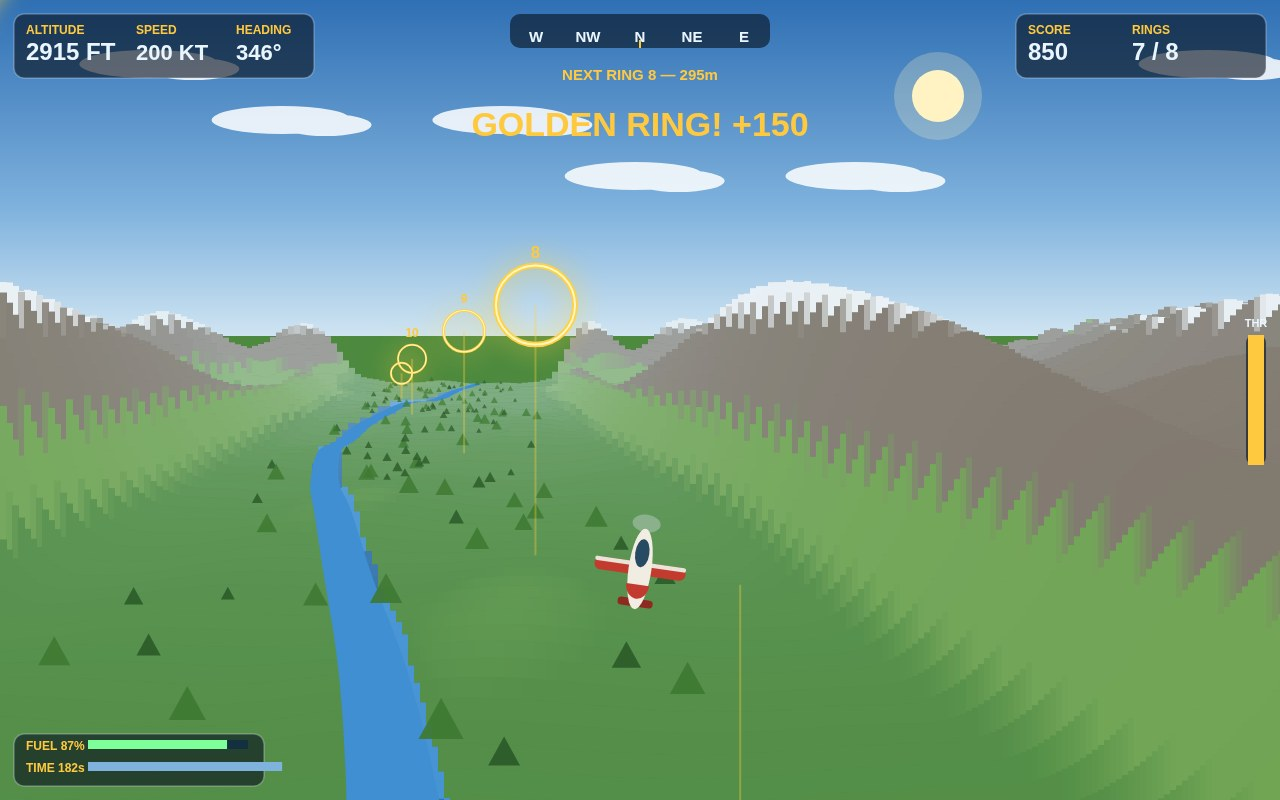
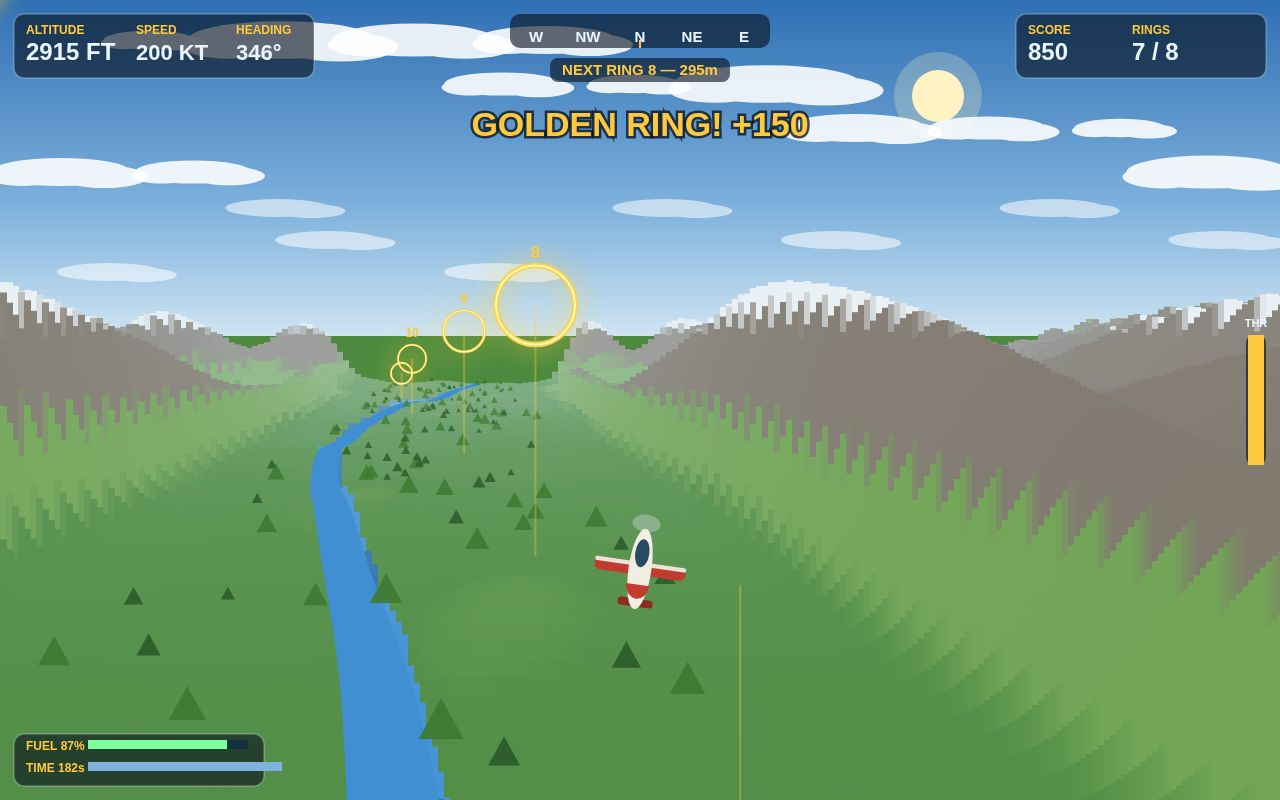
Ring Runner Ridge v2: runway landing bonus (+500, LANDED screen), low-fuel warning, denser clouds

diff --git a/game/src/render.js b/game/src/render.js
@@ -2,7 +2,7 @@
 // trees, glowing rings, the aircraft, the cockpit, the HUD and the screens.
 // One clear job: turn a world state and a camera into one canvas frame.
 
-import { COLORS, RING, WORLD } from './config.js';
+import { COLORS, RING, RUN, WORLD } from './config.js';
 import { isRiverWater, isRunwayGround, riverCentreX, terrainHeightAt } from './terrain.js';
 import { nextRing, PHASE_FLYING, PHASE_OVER, PHASE_TITLE, visibleRings } from './world.js';
 
@@ -100,14 +100,26 @@ function drawSky(ctx, width, height, camera) {
   ctx.beginPath();
   ctx.arc(sunX, sunY, 44, 0, Math.PI * 2);
   ctx.fill();
-  // A few flat clouds drifting over the valley.
-  ctx.fillStyle = 'rgba(255, 255, 255, 0.85)';
-  for (let index = 0; index < 6; index += 1) {
+  // Layered clouds drifting over the valley: a high band of big puffs and a
+  // lower band of smaller, hazier ones near the horizon for depth.
+  ctx.fillStyle = 'rgba(255, 255, 255, 0.88)';
+  for (let index = 0; index < 13; index += 1) {
     const cx = ((index * 331 + 140) % 1200) / 1200 * width;
-    const cy = height * (0.08 + (index % 3) * 0.07);
+    const cy = height * (0.05 + (index % 4) * 0.055);
+    const size = 46 + (index % 5) * 12;
     ctx.beginPath();
-    ctx.ellipse(cx, cy, 70, 14, 0, 0, Math.PI * 2);
-    ctx.ellipse(cx + 44, cy + 5, 46, 11, 0, 0, Math.PI * 2);
+    ctx.ellipse(cx, cy, size, size * 0.2, 0, 0, Math.PI * 2);
+    ctx.ellipse(cx + size * 0.62, cy + size * 0.07, size * 0.62, size * 0.16, 0, 0, Math.PI * 2);
+    ctx.ellipse(cx - size * 0.55, cy + size * 0.06, size * 0.5, size * 0.14, 0, 0, Math.PI * 2);
+    ctx.fill();
+  }
+  ctx.fillStyle = 'rgba(255, 255, 255, 0.55)';
+  for (let index = 0; index < 8; index += 1) {
+    const cx = ((index * 521 + 260) % 1200) / 1200 * width;
+    const cy = height * (0.26 + (index % 3) * 0.04);
+    ctx.beginPath();
+    ctx.ellipse(cx, cy, 52, 9, 0, 0, Math.PI * 2);
+    ctx.ellipse(cx + 34, cy + 3, 34, 7, 0, 0, Math.PI * 2);
     ctx.fill();
   }
   // Base fill below the horizon so no gap ever shows between sky and terrain.
@@ -424,7 +436,11 @@ function drawHud(ctx, world, width, height, view) {
   // Bottom-left: fuel and time bars.
   const barY = height - (view === 'cockpit' ? height * 0.24 + 58 : 58);
   hudPanel(ctx, pad, barY - 8, 250, 52);
-  ctx.fillStyle = COLORS.hudAmber;
+  // Low-fuel alarm: the FUEL label flashes and a big warning blinks on
+  // while the tank is under the threshold (flying only, not game over).
+  const fuelAlarm = world.phase === PHASE_FLYING && world.fuel < RUN.lowFuelThreshold;
+  const alarmOn = fuelAlarm && Math.floor(world.elapsed * 3) % 2 === 0;
+  ctx.fillStyle = alarmOn ? COLORS.hudRed : COLORS.hudAmber;
   ctx.font = 'bold 12px sans-serif';
   ctx.textAlign = 'left';
   ctx.fillText(`FUEL ${Math.round(world.fuel)}%`, pad + 12, barY + 8);
@@ -452,21 +468,43 @@ function drawHud(ctx, world, width, height, view) {
   ctx.font = 'bold 11px sans-serif';
   ctx.textAlign = 'center';
   ctx.fillText('THR', width - 24, throttleTop - 8);
-  // Next-ring distance, under the compass.
+  // Next-ring distance, under the compass — on a dark pill so it stays
+  // readable against the sky and the clouds drifting behind it.
   const ring = nextRing(world);
   const ringDistance = Math.max(0, Math.round(ring.z - plane.z));
-  ctx.fillStyle = COLORS.hudAmber;
+  const ringText = `NEXT RING ${ring.index + 1} — ${ringDistance}m`;
   ctx.font = 'bold 15px sans-serif';
   ctx.textAlign = 'center';
-  ctx.fillText(`NEXT RING ${ring.index + 1} — ${ringDistance}m`, width / 2, pad + 66);
-  // Flash message for rings and near misses.
-  if (world.messageTime > 0 && world.message) {
+  const ringTextWidth = ctx.measureText(ringText).width;
+  ctx.fillStyle = COLORS.hudPanel;
+  ctx.beginPath();
+  ctx.roundRect(width / 2 - ringTextWidth / 2 - 12, pad + 44, ringTextWidth + 24, 24, 8);
+  ctx.fill();
+  ctx.fillStyle = COLORS.hudAmber;
+  ctx.fillText(ringText, width / 2, pad + 61);
+  // Flash message for rings and near misses (flying only — the end screen
+  // speaks for itself once the run is over). Dark outline so it reads
+  // against bright cloud as well as blue sky.
+  if (world.phase === PHASE_FLYING && world.messageTime > 0 && world.message) {
     ctx.globalAlpha = Math.min(1, world.messageTime);
-    ctx.fillStyle = COLORS.hudAmber;
     ctx.font = 'bold 34px sans-serif';
     ctx.textAlign = 'center';
+    ctx.lineWidth = 5;
+    ctx.strokeStyle = 'rgba(6, 14, 24, 0.75)';
+    ctx.strokeText(world.message, width / 2, height * 0.17);
+    ctx.fillStyle = COLORS.hudAmber;
     ctx.fillText(world.message, width / 2, height * 0.17);
     ctx.globalAlpha = 1;
+  }
+  // Low-fuel warning: big flashing text under the ring message.
+  if (alarmOn) {
+    ctx.font = 'bold 30px sans-serif';
+    ctx.textAlign = 'center';
+    ctx.lineWidth = 5;
+    ctx.strokeStyle = 'rgba(6, 14, 24, 0.75)';
+    ctx.strokeText('LOW FUEL — LAND ON THE RUNWAY!', width / 2, height * 0.24);
+    ctx.fillStyle = COLORS.hudRed;
+    ctx.fillText('LOW FUEL — LAND ON THE RUNWAY!', width / 2, height * 0.24);
   }
 }
 
@@ -482,7 +520,7 @@ function drawTitleScreen(ctx, world, width, height) {
   ctx.fillText('Fly the valley. Thread every glowing ring. Mind the mountains.', width / 2, height * 0.38);
   ctx.font = '18px sans-serif';
   ctx.fillText('ARROWS / WASD — pitch & roll      W / S — throttle      SPACE — boost', width / 2, height * 0.5);
-  ctx.fillText('Each ring scores +100 and adds 8 seconds. Fuel and the clock are always running.', width / 2, height * 0.55);
+  ctx.fillText('Each ring scores +100 and adds 8 seconds. Fuel and the clock always run — land on the runway for +500.', width / 2, height * 0.55);
   ctx.fillStyle = COLORS.hudGreen;
   ctx.font = 'bold 22px sans-serif';
   ctx.fillText('CLICK OR PRESS ENTER TO FLY', width / 2, height * 0.66);
@@ -494,15 +532,16 @@ function drawTitleScreen(ctx, world, width, height) {
 }
 
 function drawGameOverScreen(ctx, world, width, height) {
+  const landed = world.crashReason === 'LANDED';
   ctx.fillStyle = 'rgba(6, 10, 18, 0.62)';
   ctx.fillRect(0, 0, width, height);
   ctx.textAlign = 'center';
-  ctx.fillStyle = COLORS.hudRed;
+  ctx.fillStyle = landed ? COLORS.hudGreen : COLORS.hudRed;
   ctx.font = `bold ${Math.round(width * 0.05)}px sans-serif`;
-  ctx.fillText('FLIGHT OVER', width / 2, height * 0.3);
+  ctx.fillText(landed ? 'LANDED!' : 'FLIGHT OVER', width / 2, height * 0.3);
   ctx.fillStyle = COLORS.hudAmber;
   ctx.font = 'bold 26px sans-serif';
-  ctx.fillText(world.crashReason, width / 2, height * 0.38);
+  ctx.fillText(landed ? `RUNWAY LANDING  +${RUN.landingBonus}` : world.crashReason, width / 2, height * 0.38);
   ctx.fillStyle = COLORS.hudText;
   ctx.font = 'bold 30px sans-serif';
   ctx.fillText(`SCORE ${world.score}`, width / 2, height * 0.48);

diff --git a/game/src/shots.js b/game/src/shots.js
@@ -1,5 +1,5 @@
-// The screenshot scenes behind ?shot=cover|low|valley|end. Each one plays the
-// real rules forward from a fresh world for a fixed number of steps, steered
+// The screenshot scenes behind ?shot=cover|low|valley|end|landed. Each one plays
+// the real rules forward from a fresh world for a fixed number of steps, steered
 // by a simple autopilot (aim at the next ring, hold a safe altitude, keep the
 // throttle up), so the frame is what a short game really looks like and the
 // same seed always gives the same frame.
@@ -19,6 +19,11 @@ const LOW_SECONDS = 3.5;
 const VALLEY_SECONDS = 46;
 const END_GOOD_SECONDS = 22;
 const END_DIVE_LIMIT_SECONDS = 30;
+const LANDED_OUTBOUND_SECONDS = 14;
+const LANDED_APPROACH_LIMIT_SECONDS = 75;
+
+/** Runway touchdown point the landing approach aims for (mid-strip). */
+const LANDING_TARGET = { x: -40, z: 220 };
 
 /** How far ahead, in seconds, the autopilot plans its next move. */
 const HORIZON_GOOD = 0.9;
@@ -60,11 +65,55 @@ function flyForward(world, seconds, horizon) {
 }
 
 /**
- * Set `world` to the named scene (cover, low, valley or end; any other name
- * is cover) and return the view to render it with ('chase' or 'cockpit').
+ * The landing approach stick: turn back toward the runway, slow down, and
+ * descend on a shallow profile to the touchdown point — high and fast far
+ * out, low and slow over the strip, nose level for the final few units so
+ * the wheels meet the runway gently instead of striking the ground.
+ */
+function landingAutopilot(world) {
+  const plane = world.plane;
+  const dx = LANDING_TARGET.x - plane.x;
+  const dz = LANDING_TARGET.z - plane.z;
+  const distance = Math.sqrt(dx * dx + dz * dz);
+  // Ground ahead along the direction of travel, not just down the valley:
+  // the 180-degree turn swings the plane sideways, where the ridges rise.
+  const groundAhead = terrainHeightAt(
+    plane.x + Math.sin(plane.heading) * plane.speed * 1.2,
+    plane.z + Math.cos(plane.heading) * plane.speed * 1.2,
+  );
+  // Climb high and slow for the turn, then a shallow stepped descent that
+  // only reaches the ground once lined up over the strip.
+  const profile = distance > 600 ? 75 : distance > 300 ? 45 : distance > 120 ? 18 : distance > 40 ? 6 : 0;
+  const margin = distance > 300 ? 20 : distance > 120 ? 10 : distance > 40 ? 4 : 0;
+  const desiredAltitude = Math.max(profile, groundAhead + margin);
+  const pitch = Math.max(-1, Math.min(1, (desiredAltitude - plane.y) * 0.08 - plane.pitch * 1.2));
+  const desiredHeading = Math.atan2(dx, dz);
+  let headingError = desiredHeading - plane.heading;
+  while (headingError > Math.PI) headingError -= Math.PI * 2;
+  while (headingError < -Math.PI) headingError += Math.PI * 2;
+  const roll = Math.max(-1, Math.min(1, headingError * 2.5 - plane.roll * 2.0));
+  const desiredThrottle = distance > 600 ? 0.15 : distance > 150 ? 0.55 : 0.2;
+  const throttle = Math.max(-1, Math.min(1, (desiredThrottle - plane.throttle) * 4));
+  return { pitch, roll, throttle, boost: false };
+}
+
+/**
+ * Set `world` to the named scene (cover, low, valley, end or landed; any
+ * other name is cover) and return the view to render it with ('chase' or
+ * 'cockpit').
  */
 export function stageShot(name, world) {
   resetWorld(world);
+  if (name === 'landed') {
+    // Fly out past the airfield, turn around, and land back on the runway —
+    // the run ends on the LANDED screen with the +500 bonus.
+    flyForward(world, LANDED_OUTBOUND_SECONDS, HORIZON_GOOD);
+    world.phase = PHASE_FLYING;
+    for (let index = 0; index < LANDED_APPROACH_LIMIT_SECONDS / STEP; index += 1) {
+      if (stepWorld(world, landingAutopilot(world), STEP) & EVENT_OVER) break;
+    }
+    return { view: 'chase', phase: world.phase };
+  }
   if (name === 'low') {
     // Cockpit view just after takeoff: the runway still in sight ahead.
     flyForward(world, LOW_SECONDS, HORIZON_GOOD);

diff --git a/game/src/world.js b/game/src/world.js
@@ -4,7 +4,7 @@
 
 import { PLANE, RING, RUN, STEP } from './config.js';
 import { hash01 } from './random.js';
-import { buildTreeStand, terrainHeightAt } from './terrain.js';
+import { buildTreeStand, isRunwayGround, terrainHeightAt } from './terrain.js';
 
 export const EVENT_NONE = 0;
 export const EVENT_RING = 1;
@@ -12,7 +12,8 @@ export const EVENT_NEAR_MISS = 2;
 export const EVENT_CRASH = 4;
 export const EVENT_OUT_OF_FUEL = 8;
 export const EVENT_OUT_OF_TIME = 16;
-export const EVENT_OVER = EVENT_CRASH | EVENT_OUT_OF_FUEL | EVENT_OUT_OF_TIME;
+export const EVENT_LANDED = 32;
+export const EVENT_OVER = EVENT_CRASH | EVENT_OUT_OF_FUEL | EVENT_OUT_OF_TIME | EVENT_LANDED;
 
 export const PHASE_TITLE = 'title';
 export const PHASE_FLYING = 'flying';
@@ -54,6 +55,7 @@ export function createWorld(seed) {
     messageTime: 0,
     nextRingIndex: 0,
     elapsed: 0,
+    flewAway: false, // true once the plane has left the airfield behind
   };
 }
 
@@ -113,6 +115,7 @@ export function stepWorld(world, input, dt = STEP) {
   const sink = plane.throttle < 0.12 ? 4 : 0;
   plane.y += plane.speed * Math.sin(plane.pitch) * PLANE.climbRate * dt - sink * dt;
   plane.y = clamp(plane.y, 1, PLANE.ceiling);
+  if (plane.z > RUN.airfieldClearZ) world.flewAway = true;
 
   // Fuel burns with throttle (faster on boost) and the clock always runs.
   world.fuel -= (RUN.fuelBurn * plane.throttle + (boosting ? RUN.boostFuelBurn : 0)) * dt;
@@ -144,9 +147,25 @@ export function stepWorld(world, input, dt = STEP) {
     world.nextRingIndex += 1;
   }
 
-  // The run ends on terrain, on empty fuel, or on an empty clock.
+  // The run ends on terrain, on empty fuel, or on an empty clock — unless
+  // the plane touches down gently on the runway after leaving the airfield,
+  // which lands the run instead and pays the landing bonus.
   const ground = terrainHeightAt(plane.x, plane.z);
   if (plane.y <= ground + 1.5) {
+    const sinkSpeed = plane.speed * Math.sin(plane.pitch) * PLANE.climbRate - sink;
+    const gentleTouchdown =
+      isRunwayGround(plane.x, plane.z) &&
+      world.flewAway &&
+      plane.speed <= RUN.maxLandingSpeed &&
+      sinkSpeed >= -RUN.maxLandingSink;
+    if (gentleTouchdown) {
+      world.phase = PHASE_OVER;
+      world.crashReason = 'LANDED';
+      world.score += RUN.landingBonus;
+      world.message = `LANDED! +${RUN.landingBonus}`;
+      world.messageTime = 2.5;
+      return events | EVENT_LANDED;
+    }
     world.phase = PHASE_OVER;
     world.crashReason = 'TERRAIN STRIKE';
     world.message = '';

diff --git a/game/src/main.js b/game/src/main.js
@@ -2,14 +2,15 @@
 // title, flying and game-over phases, and freezes a deterministic screenshot
 // scene when the page is opened with ?shot=cover|low|valley|end&seed=1.
 
-import { GAME_TITLE, STEP } from './config.js';
+import { GAME_TITLE, RUN, STEP } from './config.js';
 import { attachInput, consumeStartPress, createInput, readFlightInput } from './input.js';
 import { renderGame } from './render.js';
 import { stageShot } from './shots.js';
-import { createSound, playCrashThud, playNearMissTick, playRingChime, unlockSound } from './audio.js';
+import { createSound, playCrashThud, playLandingFanfare, playLowFuelWarning, playNearMissTick, playRingChime, unlockSound } from './audio.js';
 import {
   createWorld,
   EVENT_CRASH,
+  EVENT_LANDED,
   EVENT_NEAR_MISS,
   EVENT_OUT_OF_FUEL,
   EVENT_OUT_OF_TIME,
@@ -36,6 +37,7 @@ attachInput(input, canvas);
 let view = 'chase';
 let lastTime = performance.now();
 let accumulator = 0;
+let lastFuelBeepAt = -10; // run time of the last low-fuel beep, in seconds
 
 function resizeCanvas() {
   canvas.width = window.innerWidth;
@@ -53,6 +55,10 @@ function announceStatus() {
 function handleEvents(events) {
   if (events & EVENT_RING) playRingChime(sound);
   if (events & EVENT_NEAR_MISS) playNearMissTick(sound);
+  if (events & EVENT_LANDED) {
+    playLandingFanfare(sound);
+    world.best = Math.max(world.best, world.score);
+  }
   if (events & (EVENT_CRASH | EVENT_OUT_OF_FUEL | EVENT_OUT_OF_TIME)) {
     playCrashThud(sound);
     world.best = Math.max(world.best, world.score);
@@ -77,6 +83,11 @@ function gameFrame(now) {
     while (accumulator >= STEP) {
       handleEvents(stepWorld(world, readFlightInput(input), STEP));
       accumulator -= STEP;
+    }
+    // Low-fuel alarm: a beep every few seconds while the tank is in the red.
+    if (world.fuel < RUN.lowFuelThreshold && world.elapsed - lastFuelBeepAt >= 2.5) {
+      playLowFuelWarning(sound);
+      lastFuelBeepAt = world.elapsed;
     }
   } else {
     accumulator = 0;

diff --git a/game/src/config.js b/game/src/config.js
@@ -25,6 +25,11 @@ export const RUN = {
   ringTimeBonus: 8, // seconds added for each ring flown through
   ringScore: 100,
   nearMissScore: 25,
+  landingBonus: 500, // scored for landing back on the runway strip
+  maxLandingSpeed: 60, // above this, touching the runway is a crash, not a landing
+  maxLandingSink: 10, // descending faster than this (units/s) is a crash, not a landing
+  airfieldClearZ: 700, // must have flown past this z before a landing counts
+  lowFuelThreshold: 20, // fuel percent below which the low-fuel warning fires
   fuelBurn: 0.55, // fuel percent per second at full throttle
   boostFuelBurn: 2.2, // extra fuel percent per second while boosting
   boostMultiplier: 1.5,

diff --git a/game/src/audio.js b/game/src/audio.js
@@ -52,3 +52,16 @@ export function playCrashThud(sound) {
   playTone(sound, 110, 0.4, 'sawtooth', 0.16);
   setTimeout(() => playTone(sound, 70, 0.5, 'sawtooth', 0.14), 120);
 }
+
+/** Two descending beeps while the fuel gauge is in the red. */
+export function playLowFuelWarning(sound) {
+  playTone(sound, 880, 0.1, 'square', 0.07);
+  setTimeout(() => playTone(sound, 620, 0.14, 'square', 0.07), 130);
+}
+
+/** A rising three-note chime for a runway landing. */
+export function playLandingFanfare(sound) {
+  playTone(sound, 523, 0.16, 'sine', 0.12);
+  setTimeout(() => playTone(sound, 659, 0.16, 'sine', 0.12), 140);
+  setTimeout(() => playTone(sound, 784, 0.3, 'sine', 0.12), 280);
+}

diff --git a/README.md b/README.md
@@ -20,7 +20,7 @@ node serve.ts   # serves game/ at http://localhost:8080
 - **Click** — switch between chase view and cockpit view
 - **Enter** — start, or fly again after a crash
 
-Each ring you thread scores **+100** (golden rings +150) and adds **8 seconds** to the clock. A near miss still pays +25. Fuel burns with the throttle and the clock always runs — a run ends on a terrain strike, an empty tank, or an empty clock.
+Each ring you thread scores **+100** (golden rings +150) and adds **8 seconds** to the clock. A near miss still pays +25. Fuel burns with the throttle and the clock always runs — a run ends on a terrain strike, an empty tank, or an empty clock. Or land it: touch down gently on the runway strip after leaving the airfield and the run ends with a **LANDED! +500** bonus. Fuel under 20% flashes a LOW FUEL warning on the HUD with an audio cue — bring her home before the tank runs dry.
 
 ## The game
 
@@ -31,10 +31,10 @@ Each ring you thread scores **+100** (golden rings +150) and adds **8 seconds** 
 - `game/src/render.js` — sky, projected terrain, rings, the aircraft, the cockpit, the HUD
 - `game/src/input.js` — keyboard and mouse into stick, throttle and boost
 - `game/src/audio.js` — WebAudio beeps, synthesized, no sound files
-- `game/src/shots.js` — the deterministic autopilot behind `?shot=cover|low|valley|end`
+- `game/src/shots.js` — the deterministic autopilot behind `?shot=cover|low|valley|end|landed`
 - `game/src/main.js` — the game loop and the title / flying / game-over phases
 
-The screenshots in `screenshots/` are real renders of this code in a headless browser: the cover is peak gameplay (chase view, a glowing ring dead ahead, HUD lit), then the cockpit over the runway, a ring fly-through high over the valley, and the game-over screen.
+The screenshots in `screenshots/` are real renders of this code in a headless browser: the cover is peak gameplay (chase view, a glowing ring dead ahead, HUD lit), then the cockpit over the runway, a ring fly-through high over the valley, and the LANDED screen — a runway landing after the rings, +500 on the score.
 
 ## Entry
 
